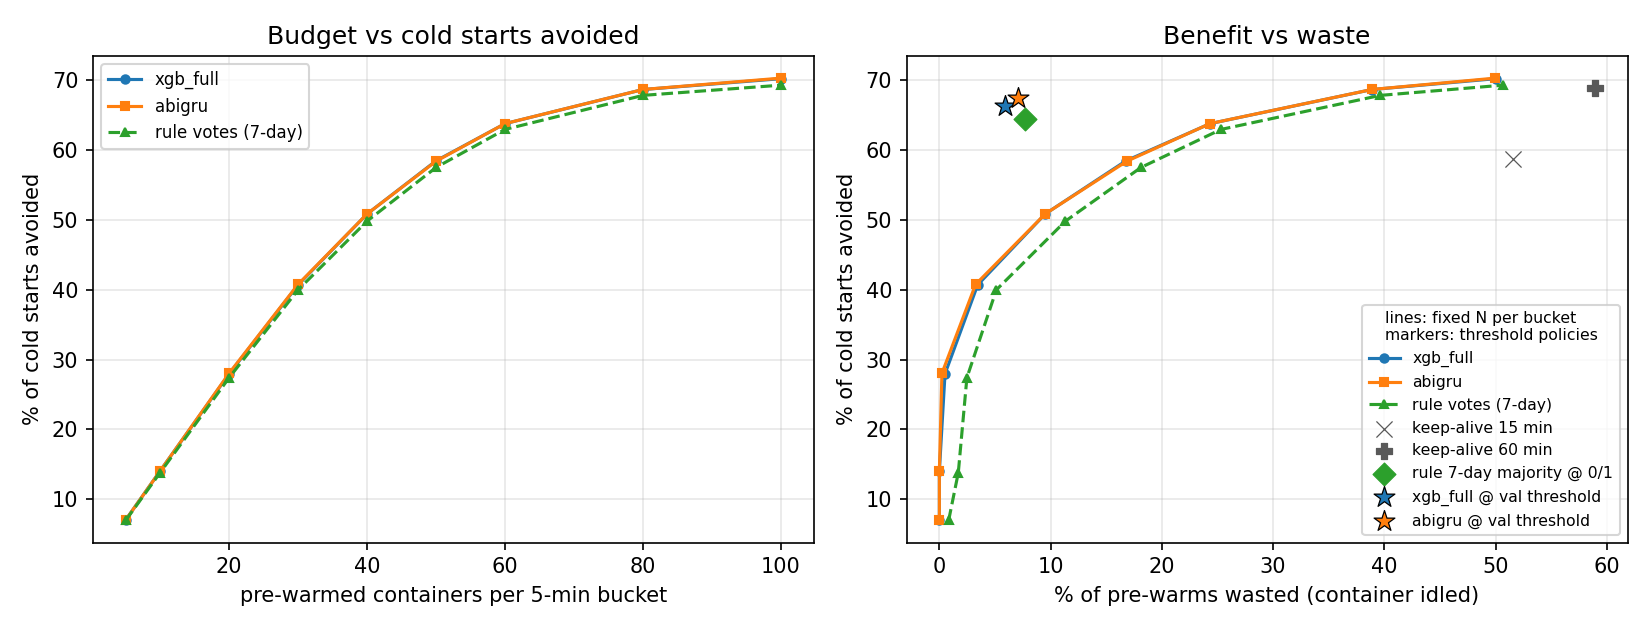
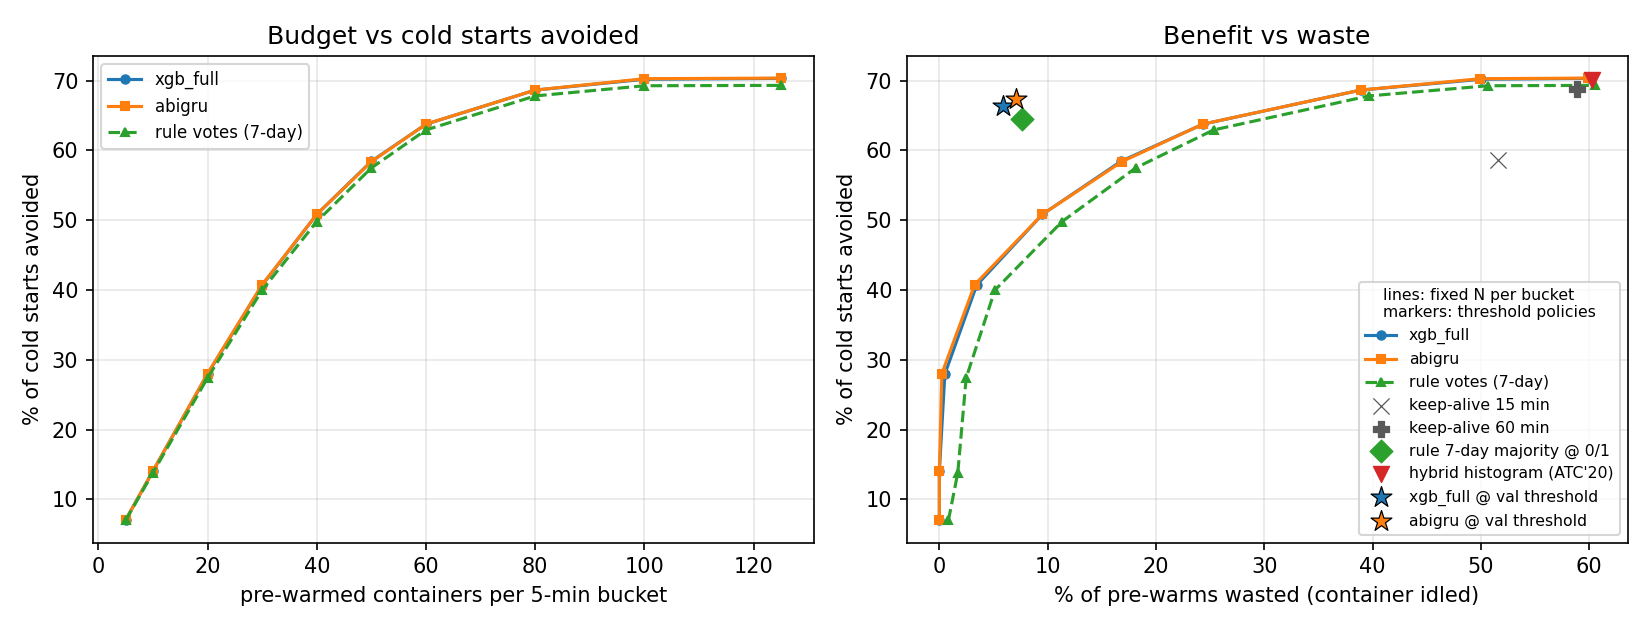
Add hybrid-histogram baseline and region-aware data loading
- v2/hh_policy.py: causal adaptation of the Azure hybrid-histogram keep-alive
  policy (Shahrad et al., ATC'20) for event-only traces
- v2/prewarm_sim.py: hybrid histogram added as a policy, classifier view of
  binary policies, budget 125; results and fig7 regenerated
- v2/data.py: per-day aggregation path (aggregate()), CS_REGION switch;
  reproduces the Region 5 cache byte for byte
- v2/region_prep.py: aggregates a region zip day by day into v2/cache/agg_R<n>
- README: hybrid-histogram row in the pre-warming table

Claude-Session: https://claude.ai/code/session_01C6uaccgb8elqr8xbifykv7

diff --git a/v2/data.py b/v2/data.py
@@ -3,7 +3,9 @@ import glob, os
 import numpy as np, pandas as pd
 
 ROOT = os.path.dirname(os.path.dirname(os.path.abspath(__file__)))
-CACHE = os.path.join(ROOT, "v2", "cache", "matrices.npz")
+REGION = os.environ.get("CS_REGION", "5")      # Huawei region 1-5; region 5 keeps the original cache name
+CACHE = os.path.join(ROOT, "v2", "cache", "matrices.npz" if REGION == "5" else f"matrices_R{REGION}.npz")
+AGG_DIR = os.path.join(ROOT, "v2", "cache", f"agg_R{REGION}")   # per-day aggregates written by region_prep.py
 B, PD, DAYS = 300, 288, 31
 TOT = DAYS * PD
 TRAIN_END, VAL_END = 24 * PD, 27 * PD
@@ -12,31 +14,58 @@ MIN_TRAIN_EV = 10
 HOLDOUT_FRAC, SEED = 0.2, 42
 
 
-def build():
-    df = pd.concat(pd.read_csv(f) for f in sorted(glob.glob(f"{ROOT}/dataset/raw/region5_cold_starts/R5/day_*.csv")))
+AGG_KEYS = ["fid", "b", "clusterName"]
+
+
+def aggregate(df):
+    """Per (function, bucket, cluster) sums. Everything the cache needs is derivable from these sums, so large regions
+    can be aggregated one day at a time (region_prep.py) without loading the whole trace into memory."""
     pool = df.podID.str.rsplit("-", n=1).str[0]
-    df["pool"] = pool
-    df["fid"] = df.funcName.astype(str) + "--" + df.userID.astype(str) + "--" + pool
-    df["b"] = (df.time // B).astype(int)
-    fids = np.sort(df.fid.unique()); idx = {f: i for i, f in enumerate(fids)}
-    df["fi"] = df.fid.map(idx)
+    df = df.assign(fid=df.funcName.astype(str) + "--" + df.userID.astype(str) + "--" + pool,
+                   b=(df.time // B).astype(int), depn=(df.deployDependencyCost > 0).astype(np.int64))
+    return df.groupby(AGG_KEYS, sort=False).agg(n=("totalCost_cold_start", "size"), c=("totalCost_cold_start", "sum"),
+                                                 dep=("depn", "sum"), code=("deployCodeCost", "sum"),
+                                                 sched=("schedulingCost", "sum"), alloc=("podAllocationCost", "sum")).reset_index()
+
+
+def raw_files():
+    pats = [f"{ROOT}/dataset/raw/region{REGION}_cold_starts/R{REGION}/day_*.csv", f"{ROOT}/dataset/raw/**/R{REGION}/day_*.csv"]
+    for p in pats:
+        fs = sorted(glob.glob(p, recursive=True))
+        if fs:
+            return fs
+    return []
+
+
+def build():
+    if os.path.isdir(AGG_DIR) and glob.glob(f"{AGG_DIR}/day_*.pkl"):
+        A = pd.concat(pd.read_pickle(f) for f in sorted(glob.glob(f"{AGG_DIR}/day_*.pkl")))
+    else:
+        A = pd.concat(aggregate(pd.read_csv(f)) for f in raw_files())
+    A = A.groupby(AGG_KEYS, sort=False).sum().reset_index()   # a key can only repeat across files at day borders
+    A["pool"] = A.fid.str.split("--").str[2]
+    A["user"] = A.fid.str.split("--").str[1]
+    fids = np.sort(A.fid.unique()); idx = {f: i for i, f in enumerate(fids)}
+    A["fi"] = A.fid.map(idx)
     F = len(fids)
     cnt = np.zeros((F, TOT), np.float32); cost = np.zeros((F, TOT), np.float32)
-    g = df.groupby(["fi", "b"]).agg(n=("totalCost_cold_start", "size"), c=("totalCost_cold_start", "sum")).reset_index()
+    g = A.groupby(["fi", "b"]).agg(n=("n", "sum"), c=("c", "sum")).reset_index()
     cnt[g.fi.values, g.b.values] = g.n.values; cost[g.fi.values, g.b.values] = g.c.values
 
-    # ---- static metadata, computed ONLY from the training period (b < TRAIN_END) ----
-    tr = df[df.b < STAT_END]
-    trfull = df[df.b < TRAIN_END]   # used ONLY to define slice membership (role), never as a feature
+    # ---- static metadata, computed ONLY from days 0-6 (STAT_END); role uses event counts of days 0-23 ----
+    tr = A[A.b < STAT_END]
+    trfull = A[A.b < TRAIN_END]   # used ONLY to define slice membership (role), never as a feature
     meta = pd.DataFrame(index=range(F))
-    pp = df.groupby("fi").pool.first().str.extract(r"pool(\d+)-(\d+)-(\d+)").astype(float)
+    first = A.groupby("fi").first()
+    pp = first.pool.str.extract(r"pool(\d+)-(\d+)-(\d+)").astype(float)
     meta["pool_id"], meta["pool_cpu"], meta["pool_mem"] = pp[0].values, pp[1].values, pp[2].values
-    meta["cluster"] = df.groupby("fi").clusterName.agg(lambda s: s.mode().iloc[0]).values
-    meta["user"] = df.groupby("fi").userID.first().values
-    st = tr.groupby("fi").agg(tr_events=("b", "size"), tr_mean_cost=("totalCost_cold_start", "mean"),
-                              tr_dep_frac=("deployDependencyCost", lambda s: (s > 0).mean()),
-                              tr_code=("deployCodeCost", "mean"), tr_sched=("schedulingCost", "mean"),
-                              tr_alloc=("podAllocationCost", "mean"), first_b=("b", "min"))
+    cl = A.groupby(["fi", "clusterName"]).n.sum().reset_index().sort_values(["fi", "n", "clusterName"], ascending=[True, False, True])
+    meta["cluster"] = cl.groupby("fi").clusterName.first().values          # mode, ties -> smallest (as Series.mode)
+    meta["user"] = pd.to_numeric(first.user, errors="coerce").values
+    s_ = tr.groupby("fi").agg(n=("n", "sum"), c=("c", "sum"), dep=("dep", "sum"), code=("code", "sum"), sched=("sched", "sum"),
+                               alloc=("alloc", "sum"), first_b=("b", "min"))
+    st = pd.DataFrame({"tr_events": s_.n, "tr_mean_cost": s_.c / s_.n, "tr_dep_frac": s_.dep / s_.n, "tr_code": s_.code / s_.n,
+                       "tr_sched": s_.sched / s_.n, "tr_alloc": s_.alloc / s_.n, "first_b": s_.first_b})
     meta = meta.join(st).fillna({"tr_events": 0, "tr_mean_cost": 0, "tr_dep_frac": 0, "tr_code": 0, "tr_sched": 0, "tr_alloc": 0})
     meta["first_b"] = meta["first_b"].fillna(TOT).astype(float)
     # per-function periodicity from training days: active-bucket-of-day concentration
@@ -46,7 +75,7 @@ def build():
     meta["tr_slot_conc"] = np.where(per_slot.sum(1) > 0, per_slot.max(1) / np.maximum(per_slot.sum(1), 1), 0)
     meta["tr_event_buckets"] = ev.reshape(F, -1).sum(1).astype(float)
     rng = np.random.RandomState(SEED)
-    trev = trfull.groupby('fi').size().reindex(range(F)).fillna(0).values
+    trev = trfull.groupby('fi').n.sum().reindex(range(F)).fillna(0).values
     elig = np.where(trev >= MIN_TRAIN_EV)[0]
     holdout = rng.choice(elig, int(len(elig) * HOLDOUT_FRAC), replace=False)
     role = np.zeros(F, np.int8)             # 0 normal-eligible, 1 holdout(new), 2 low-history(<10 train events)

diff --git a/v2/hh_policy.py b/v2/hh_policy.py
@@ -1,0 +1,79 @@
+"""Hybrid-histogram (HH) keep-alive / pre-warm policy, adapted from Shahrad et al.,
+"Serverless in the Wild", USENIX ATC 2020 (the standard pre-warming baseline from Azure Functions).
+
+Original policy (per application, 1-minute bins, 4-hour range):
+  * keep a histogram of idle times (ITs) between invocations;
+  * if many ITs fall outside the range, predict the next IT with ARIMA
+    (pre-warm = 85% of the prediction, keep-alive window = +/-15% around it);
+  * else if the histogram is representative (coefficient of variation of bin counts > 2),
+    pre-warm window = 5th percentile of ITs (minus 10% margin) and keep-alive window ends at the
+    99th percentile (plus 10% margin); the container is unloaded after each execution and re-loaded
+    at last_event + pre-warm;
+  * otherwise fall back to a standard fixed keep-alive equal to the histogram range (4 h).
+
+Adaptation to this trace (stated honestly in the paper):
+  * the trace has cold-start events only, so the "idle time" is the gap between consecutive buckets that
+    contain a cold start (not between invocations);
+  * bins are 5-minute buckets; range = 48 buckets (4 h);
+  * the ARIMA branch is replaced by a simple forecaster (median of the last 5 out-of-range gaps),
+    because statsmodels is not part of the pipeline; it is used by few functions (reported);
+  * strictly causal: the policy parameters used during the idle period that starts at event E[i] are
+    computed only from gaps that ended at or before E[i].
+
+Warm decision for bucket t: L = last event bucket < t, g = t - L.  warm  <=>  pw <= g <= ka_end.
+"""
+import numpy as np
+
+RANGE = 48            # 4 h in 5-minute buckets
+HEAD_Q, TAIL_Q = 5, 99
+MARGIN = 0.10
+CV_MIN = 2.0
+MIN_ITS = 10          # fewer observed gaps -> not representative
+OOB_FRAC = 0.5        # share of out-of-range gaps that switches to the forecaster branch
+
+
+def _params(hist, n_oob, recent_oob, fallback_ka):
+    """hist: counts of in-range gaps for gap = 1..RANGE (index 0 -> gap 1). Returns (pw, ka_end, branch)."""
+    n_in = hist.sum(); n = n_in + n_oob
+    if n >= MIN_ITS and n_oob / n > OOB_FRAC and len(recent_oob):
+        pred = float(np.median(recent_oob[-5:]))
+        return int(np.floor(0.85 * pred)), int(np.ceil(1.15 * pred)), 2
+    if n_in >= MIN_ITS:
+        cv = hist.std() / max(hist.mean(), 1e-9)
+        if cv > CV_MIN:
+            c = np.cumsum(hist) / n_in
+            head = int(np.searchsorted(c, HEAD_Q / 100)) + 1
+            tail = int(np.searchsorted(c, TAIL_Q / 100)) + 1
+            return int(np.floor(head * (1 - MARGIN))), int(np.ceil(tail * (1 + MARGIN))), 1
+    return 0, fallback_ka, 0
+
+
+def hh_warm(ev, f, t, fallback_ka=RANGE):
+    """ev: (F, T) 0/1 event matrix. f, t: query rows. Returns bool warm decisions and branch used per row."""
+    warm = np.zeros(len(f), bool); branch = np.full(len(f), -1, np.int8)
+    order = np.lexsort((t, f)); fs, ts = f[order], t[order]
+    bounds = np.r_[0, np.flatnonzero(np.diff(fs)) + 1, len(fs)]
+    for a, b in zip(bounds[:-1], bounds[1:]):
+        fi = fs[a]; tq = ts[a:b]
+        E = np.flatnonzero(ev[fi] > 0)
+        if len(E) == 0:
+            continue
+        gaps = np.diff(E)                          # gaps[i] ends at event E[i+1]
+        # parameters valid during idle period after event E[i] use gaps[:i]
+        k = np.searchsorted(E, tq, side="left") - 1   # index of last event strictly before t
+        has = k >= 0
+        uk = np.unique(k[has])
+        P = {}
+        hist = np.zeros(RANGE, np.int64); n_oob = 0; oob = []; done = 0
+        for i in uk:                               # incremental, causal
+            for gg in gaps[done:i]:
+                if gg <= RANGE: hist[gg - 1] += 1
+                else: n_oob += 1; oob.append(gg)
+            done = i
+            P[i] = _params(hist, n_oob, np.asarray(oob), fallback_ka)
+        res_w = np.zeros(b - a, bool); res_b = np.full(b - a, -1, np.int8)
+        for j in np.flatnonzero(has):
+            pw, ka, br = P[k[j]]; g = tq[j] - E[k[j]]
+            res_w[j] = pw <= g <= ka; res_b[j] = br
+        warm[order[a:b]] = res_w; branch[order[a:b]] = res_b
+    return warm, branch

diff --git a/v2/prewarm_sim.py b/v2/prewarm_sim.py
@@ -22,6 +22,7 @@ Outputs: v2/results/prewarm_sim.md, v2/figures/fig7_prewarm_tradeoff.png
 import os, sys, json, numpy as np
 sys.path.insert(0, os.path.dirname(os.path.abspath(__file__)))
 from data import load
+from hh_policy import hh_warm, RANGE
 HERE = os.path.dirname(os.path.abspath(__file__)); RES = os.path.join(HERE, "results")
 S = np.load(f"{RES}/frames.npz"); d = load()
 mt = S["test_main_role"] == 0
@@ -67,9 +68,15 @@ pol = {"no_prewarm": np.zeros_like(y), "keepalive_15min": recent(3), "keepalive_
        "xgb_full @ threshold %.3f" % thr["xgb_full_s42"]: SC["xgb_full"] >= thr["xgb_full_s42"],
        "abigru @ threshold %.3f" % thr["abigru_s0"]: SC["abigru"] >= thr["abigru_s0"],
        "mlp_static @ threshold %.3f" % thr["mlp_static_s0"]: SC["mlp_static"] >= thr["mlp_static_s0"]}
+# hybrid-histogram baseline (Shahrad et al., ATC 2020), adapted; see hh_policy.py
+hh, hh_branch = hh_warm(ev, f, t, fallback_ka=RANGE)
+hh60, _ = hh_warm(ev, f, t, fallback_ka=12)
+pol["hybrid_histogram (ATC'20, fallback 4 h)"] = hh
+pol["hybrid_histogram (fallback 60 min)"] = hh60
+fn_branch = {b: len(np.unique(f[hh_branch == b])) for b in (0, 1, 2)}
 res = {k: evaluate(v) for k, v in pol.items()}
 
-BUDGETS = [5, 10, 20, 30, 40, 50, 60, 80, 100]
+BUDGETS = [5, 10, 20, 30, 40, 50, 60, 80, 100, 125]
 curves = {"xgb_full": SC["xgb_full"], "abigru": SC["abigru"], "rule votes (7-day)": slot_votes + 0.01 * yday}
 bud = {name: [evaluate(topn(sc, n)) for n in BUDGETS] for name, sc in curves.items()}
 
@@ -85,6 +92,21 @@ out += ["\n## Fixed budget: N pre-warmed containers per 5-minute bucket (top-N f
         "| N per bucket | " + " | ".join(f"{c}: % cold starts avoided / % wasted" for c in curves) + " |", "|---|" + "---|" * len(curves)]
 for i, n in enumerate(BUDGETS):
     out.append(f"| {n} | " + " | ".join(f"{bud[c][i]['avoided_pct']:.1f}% / {bud[c][i]['waste_pct']:.1f}%" for c in curves) + " |")
+# classification view of the binary policies (same rows as the benchmark's MAIN slice)
+def cls(pred, m):
+    p, yy = pred[m], y[m]; tp = (p & yy).sum(); fp = (p & ~yy).sum(); fn_ = (~p & yy).sum(); tn = (~p & ~yy).sum()
+    pr = tp / max(tp + fp, 1); rc = tp / max(tp + fn_, 1); f1 = 2 * pr * rc / max(pr + rc, 1e-9)
+    mcc = (tp * tn - fp * fn_) / max(np.sqrt(float(tp + fp) * (tp + fn_) * (tn + fp) * (tn + fn_)), 1e-9)
+    return pr, rc, f1, mcc
+react = S["test_main_roll12"][mt] == 0
+out += ["\n## Policies as classifiers (test days 27-30)\n",
+        "| policy | MAIN all: precision / recall / F1 / MCC | MAIN reactivation: precision / recall / F1 / MCC |", "|---|---|---|"]
+for k, v in pol.items():
+    if k == "no_prewarm": continue
+    a, r_ = cls(v, np.ones_like(y)), cls(v, react)
+    out.append(f"| {k} | {a[0]:.3f} / {a[1]:.3f} / {a[2]:.3f} / {a[3]:.3f} | {r_[0]:.3f} / {r_[1]:.3f} / {r_[2]:.3f} / {r_[3]:.3f} |")
+out += ["\nHybrid-histogram branch use (functions; a function can use several over time): fixed keep-alive %d, "
+        "histogram %d, out-of-range forecaster %d.\n" % (fn_branch[0], fn_branch[1], fn_branch[2])]
 out += ["\nAverage number of functions with a cold start per bucket: %.1f.\n" % (y.sum() / n_buckets)]
 open(f"{RES}/prewarm_sim.md", "w").write("\n".join(out)); print("\n".join(out))
 
@@ -97,7 +119,8 @@ try:
         ax[1].plot([b["waste_pct"] for b in bud[c]], [b["avoided_pct"] for b in bud[c]], st, label=c, ms=4)
     # threshold policies (adaptive number of containers per bucket) as single points; keep-alive in neutral grey
     pts = [("keepalive_15min", "keep-alive 15 min", "x", "0.35"), ("keepalive_60min", "keep-alive 60 min", "P", "0.35"),
-           ("rule_majority_7d", "rule 7-day majority @ 0/1", "D", "C2")]
+           ("rule_majority_7d", "rule 7-day majority @ 0/1", "D", "C2"),
+           ("hybrid_histogram (ATC'20, fallback 4 h)", "hybrid histogram (ATC'20)", "v", "C3")]
     pts += [(k, k.split(" @")[0] + " @ val threshold", mk, c) for k, mk, c in
             ((next(x for x in res if x.startswith("xgb_full")), "*", "C0"), (next(x for x in res if x.startswith("abigru")), "*", "C1"))]
     for k, lab, mk, c in pts:

diff --git a/v2/region_prep.py b/v2/region_prep.py
@@ -1,0 +1,29 @@
+"""Aggregate one Huawei region's cold-start CSVs (read straight from the zip, no extraction) into per-day
+(function, bucket, cluster) sums under v2/cache/agg_R<n>/, then build the region cache v2/cache/matrices_R<n>.npz.
+usage: python region_prep.py <region> [zip path]      (re-running skips days already aggregated)"""
+import os, re, sys, glob, zipfile, time
+import pandas as pd
+r = sys.argv[1]; os.environ["CS_REGION"] = r
+import data
+ROOT = data.ROOT
+zp = sys.argv[2] if len(sys.argv) > 2 else next(iter(sorted(glob.glob(f"{ROOT}/dataset/raw/R{r}*.zip") + glob.glob(f"{ROOT}/dataset/raw/region{r}*.zip"))), None)
+os.makedirs(data.AGG_DIR, exist_ok=True)
+z = zipfile.ZipFile(zp)
+days = sorted(n for n in z.namelist() if re.search(r"day_\d+\.csv$", n) and "__MACOSX" not in n)
+print(zp, len(days), "day files", flush=True)
+t0 = time.time()
+for n in days:
+    out = os.path.join(data.AGG_DIR, os.path.basename(n).replace(".csv", ".pkl"))
+    if os.path.exists(out):
+        continue
+    with z.open(n) as fh:
+        df = pd.read_csv(fh, usecols=["time", "clusterName", "funcName", "userID", "totalCost_cold_start", "podAllocationCost",
+                                       "deployCodeCost", "deployDependencyCost", "schedulingCost", "podID"])
+    data.aggregate(df).to_pickle(out)
+    print(n, len(df), f"{time.time()-t0:.0f}s", flush=True)
+    if time.time() - t0 > float(os.environ.get("PREP_BUDGET", "1e9")):
+        print("budget reached, re-run to continue"); sys.exit(0)
+data.build(); print("cache ->", data.CACHE, f"{time.time()-t0:.0f}s")
+d = data.load(); rl = d["role"]
+print("functions", len(rl), "normal", (rl == 0).sum(), "holdout", (rl == 1).sum(), "low-history", (rl == 2).sum(),
+      "events", int(d["cnt"].sum()))

diff --git a/v2/results/prewarm_sim.md b/v2/results/prewarm_sim.md
@@ -16,6 +16,8 @@ One pre-warm = one container kept ready for one 5-minute bucket; it avoids at mo
 | xgb_full @ threshold 0.538 | 50.2 | 54,432 | 66.4% | 45,782 | 55.9% | 3,397 | 5.9% | 283 |
 | abigru @ threshold 0.437 | 51.6 | 55,263 | 67.4% | 46,658 | 56.9% | 4,204 | 7.1% | 350 |
 | mlp_static @ threshold 0.510 | 50.8 | 54,704 | 66.7% | 46,245 | 56.4% | 3,837 | 6.6% | 320 |
+| hybrid_histogram (ATC'20, fallback 4 h) | 125.6 | 57,535 | 70.1% | 48,978 | 59.8% | 87,159 | 60.2% | 7,263 |
+| hybrid_histogram (fallback 60 min) | 125.1 | 57,519 | 70.1% | 48,975 | 59.8% | 86,641 | 60.1% | 7,220 |
 
 ## Fixed budget: N pre-warmed containers per 5-minute bucket (top-N functions by score)
 
@@ -30,5 +32,23 @@ One pre-warm = one container kept ready for one 5-minute bucket; it avoids at mo
 | 60 | 63.8% / 24.3% | 63.8% / 24.3% | 62.9% / 25.3% |
 | 80 | 68.6% / 38.9% | 68.6% / 38.9% | 67.8% / 39.6% |
 | 100 | 70.2% / 50.0% | 70.3% / 50.0% | 69.3% / 50.7% |
+| 125 | 70.3% / 59.9% | 70.4% / 59.9% | 69.3% / 60.5% |
+
+## Policies as classifiers (test days 27-30)
+
+| policy | MAIN all: precision / recall / F1 / MCC | MAIN reactivation: precision / recall / F1 / MCC |
+|---|---|---|
+| keepalive_15min | 0.485 / 0.833 / 0.613 / 0.566 | 0.000 / 0.000 / 0.000 / 0.000 |
+| keepalive_60min | 0.411 / 0.978 / 0.579 / 0.559 | 0.000 / 0.000 / 0.000 / 0.000 |
+| rule_same_slot_yesterday | 0.906 / 0.907 / 0.906 / 0.892 | 0.763 / 0.848 / 0.803 / 0.804 |
+| rule_majority_7d | 0.923 / 0.916 / 0.919 / 0.907 | 0.900 / 0.842 / 0.870 / 0.870 |
+| xgb_full @ threshold 0.538 | 0.941 / 0.943 / 0.942 / 0.933 | 0.981 / 0.837 / 0.903 / 0.906 |
+| abigru @ threshold 0.437 | 0.929 / 0.957 / 0.943 / 0.934 | 0.971 / 0.831 / 0.896 / 0.898 |
+| mlp_static @ threshold 0.510 | 0.934 / 0.947 / 0.941 / 0.932 | 0.985 / 0.823 / 0.897 / 0.900 |
+| hybrid_histogram (ATC'20, fallback 4 h) | 0.398 / 0.996 / 0.568 / 0.553 | 0.023 / 0.880 / 0.045 / 0.127 |
+| hybrid_histogram (fallback 60 min) | 0.399 / 0.996 / 0.570 / 0.554 | 0.023 / 0.868 / 0.045 / 0.126 |
+
+Hybrid-histogram branch use (functions; a function can use several over time): fixed keep-alive 4, histogram 124, out-of-range forecaster 260.
+
 
 Average number of functions with a cold start per bucket: 50.1.

diff --git a/README.md b/README.md
@@ -35,11 +35,12 @@ More figures in [`v2/figures/`](v2/figures): precision–recall and ROC curves, 
 | Policy | Containers per bucket | Cold starts avoided | Wasted pre-warms | Idle container-hours |
 |---|---|---|---|---|
 | Keep-alive 60 min | 119 | 68.8% | 58.9% | 6,747 |
+| Hybrid histogram (Azure, ATC'20; `v2/hh_policy.py`) | 126 | 70.1% | 60.2% | 7,263 |
 | Rule: 7-day majority | 50 | 64.4% | 7.7% | 366 |
 | XGBoost | 50 | 66.4% | 5.9% | 283 |
 | ABiGRU | 52 | 67.4% | 7.1% | 350 |
 
-Prediction-driven pre-warming gets close to a long keep-alive's benefit with about 20 times fewer idle container-hours (ceiling: 70.4%). Additional checks (calibration, paired significance tests, rolling-origin evaluation, XGBoost tuning) are summarized in the documentation, Section 8.12.
+Prediction-driven pre-warming gets close to a long keep-alive's or the hybrid-histogram policy's benefit with about 20–25 times fewer idle container-hours (ceiling: 70.4%). Additional checks (calibration, paired significance tests, rolling-origin evaluation, XGBoost tuning) are summarized in the documentation, Section 8.12.
 
 ## Repository layout
 
